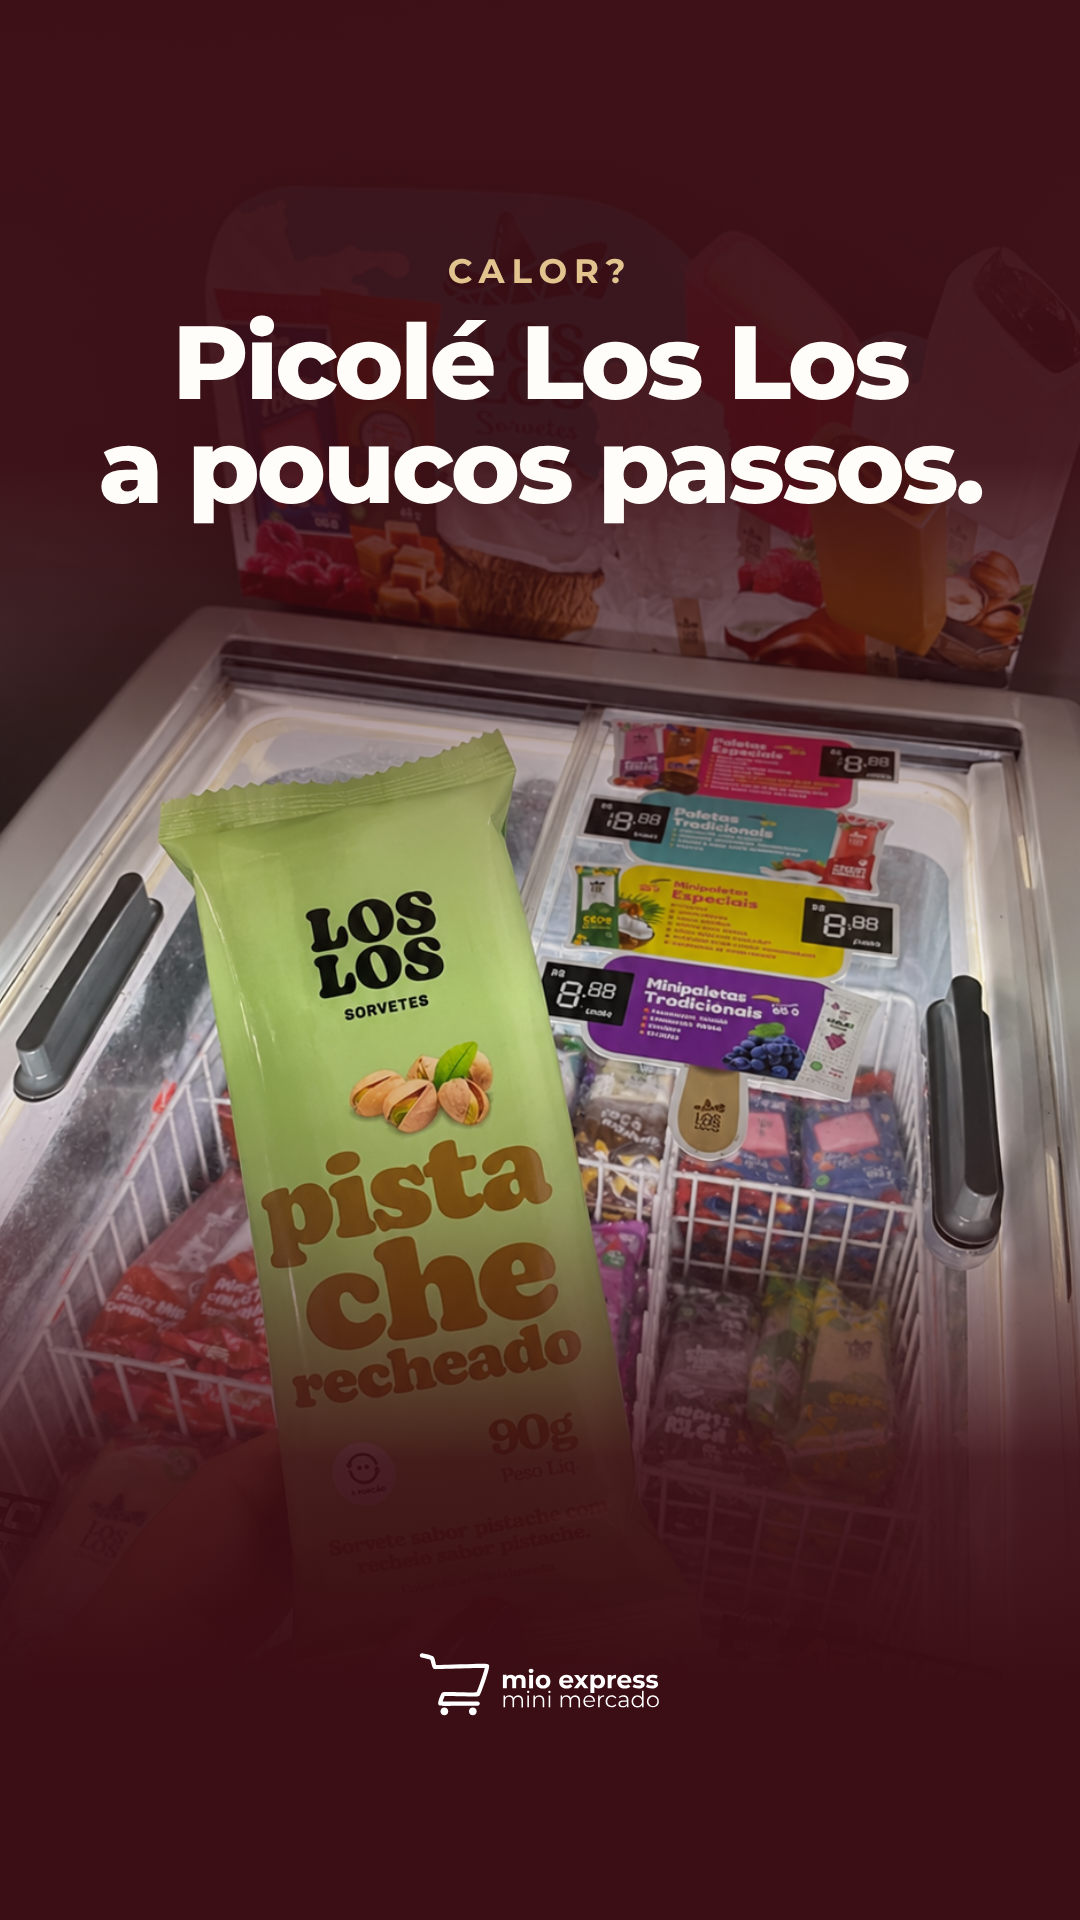
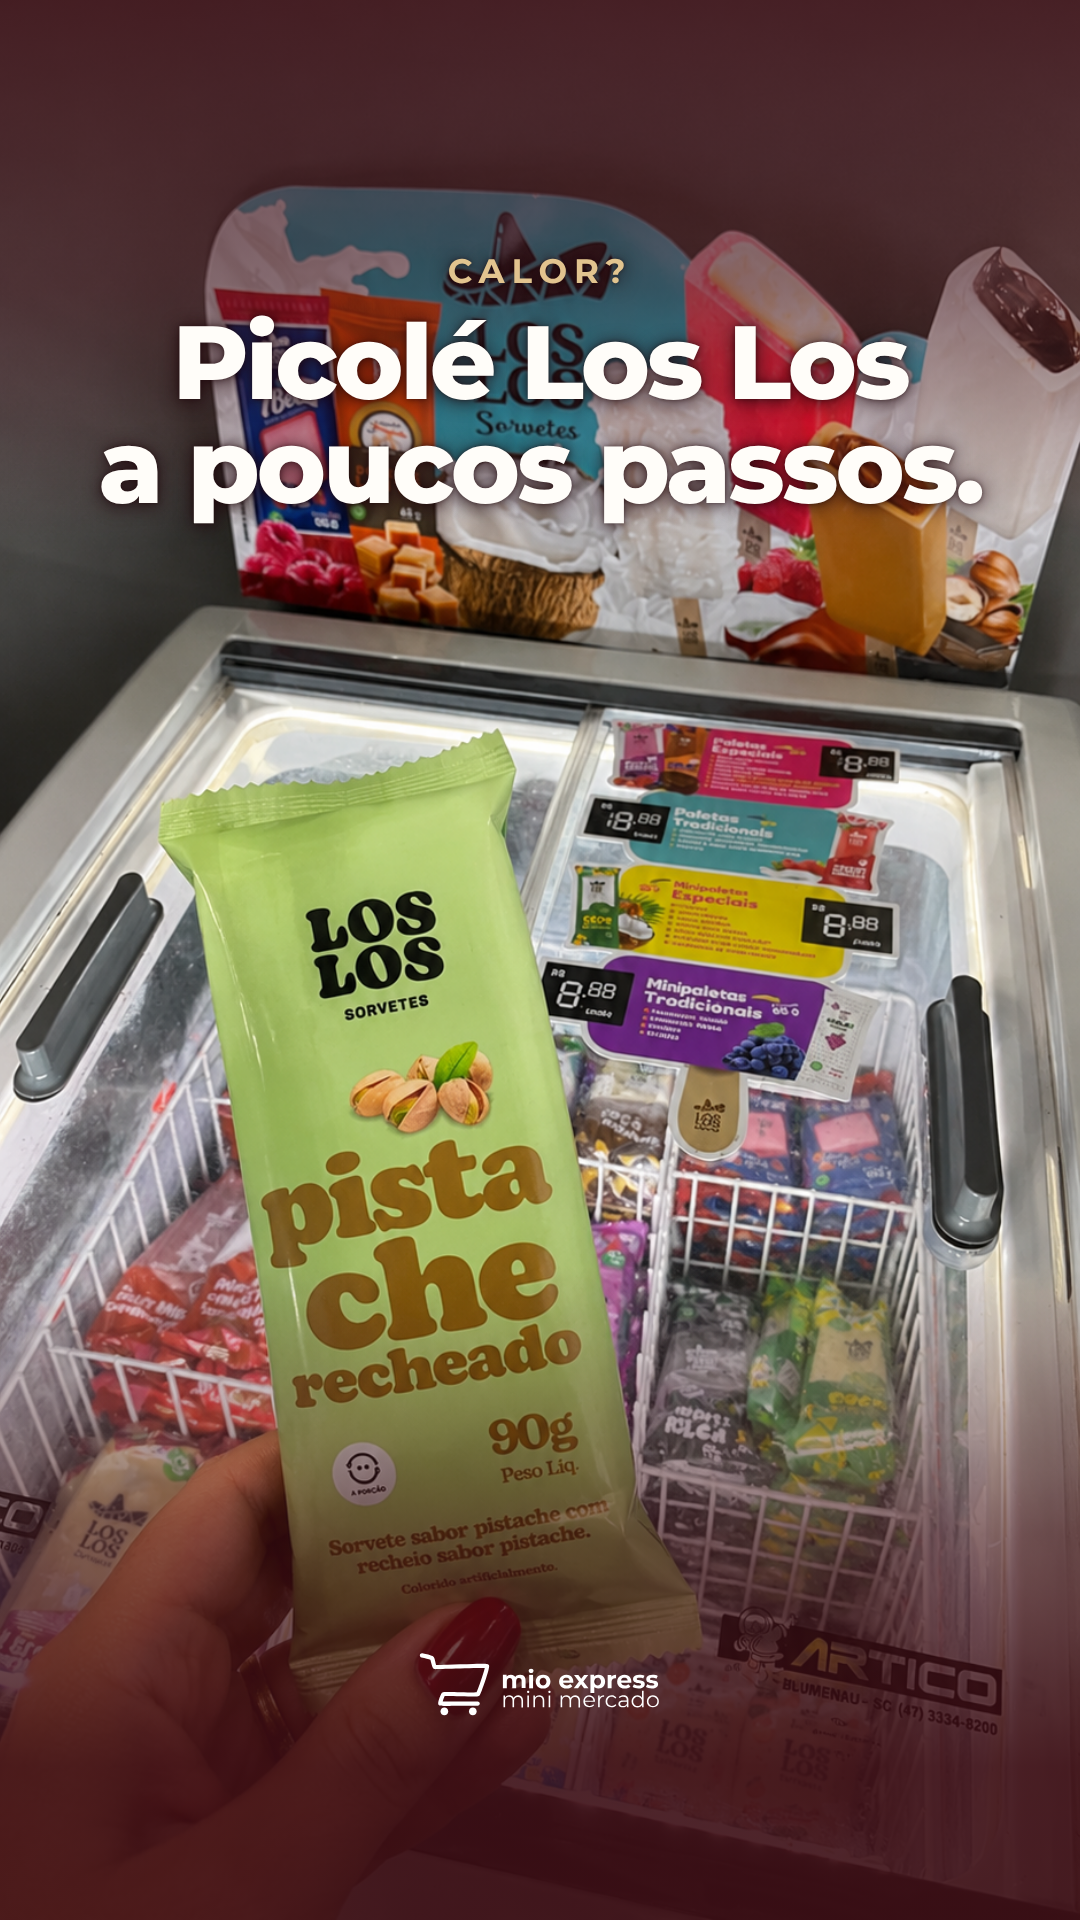
Fotos lifestyle com menos bordô
Claude-Session: https://claude.ai/code/session_01CwP1brNtxaKT1mUQXiiAjA

diff --git a/marketing/posts/02-morador-23h/.slide.html b/marketing/posts/02-morador-23h/.slide.html
@@ -39,7 +39,9 @@ p.lead { font-size: 38px; line-height: 1.35; font-weight: 500; opacity: .88; }
 .ft::after { content: ""; position: absolute; inset: 0; background: linear-gradient(180deg, rgba(59,13,20,.97) 0%, rgba(59,13,20,.9) 30%, rgba(59,13,20,.25) 52%, rgba(59,13,20,0) 66%, rgba(59,13,20,.75) 100%); }
 .ft2 { position: absolute; left: 0; right: 0; bottom: 0; height: 760px; background-size: cover; }
 .ft2::after { content: ""; position: absolute; inset: 0; background: linear-gradient(180deg, #3b0d14 0%, rgba(59,13,20,0) 28%, rgba(59,13,20,0) 70%, rgba(59,13,20,.85) 100%); }
+.ft.life::after { background: linear-gradient(180deg, rgba(59,13,20,.85) 0%, rgba(59,13,20,.55) 22%, rgba(59,13,20,0) 38%, rgba(59,13,20,0) 78%, rgba(59,13,20,.7) 100%); }
+.ft.life ~ .z h1, .ft.life ~ .z .eyebrow { text-shadow: 0 2px 18px rgba(30,6,10,.85), 0 0 4px rgba(30,6,10,.5); }
 .ft.baixo::after { background: linear-gradient(180deg, rgba(59,13,20,.5) 0%, rgba(59,13,20,0) 18%, rgba(59,13,20,0) 32%, rgba(59,13,20,.88) 52%, rgba(59,13,20,.97) 70%, #3b0d14 100%); }
-</style><body><div class="s" style="color:#fffdf9;background:#3b0d14"><div class="ft" style="background-image:url(file:///home/user/mioexpress-site/assets/source/lifestyle/leite-italac.png);background-position:50% 64%"></div>
+</style><body><div class="s" style="color:#fffdf9;background:#3b0d14"><div class="ft life" style="background-image:url(file:///home/user/mioexpress-site/assets/source/lifestyle/leite-italac.png);background-position:50% 64%"></div>
         <div class="z"><p class="eyebrow" style="color:#e2c48f">23h47</p>
         <h1 class="mt1" style="font-size:92px">Acabou o leite?<br><em>Desce ali.</em></h1></div><div class="rodape"><img src="file:///home/user/mioexpress-site/public/brand/logo-white.svg"><span>@mioexpressbrasil</span></div></div></body>
